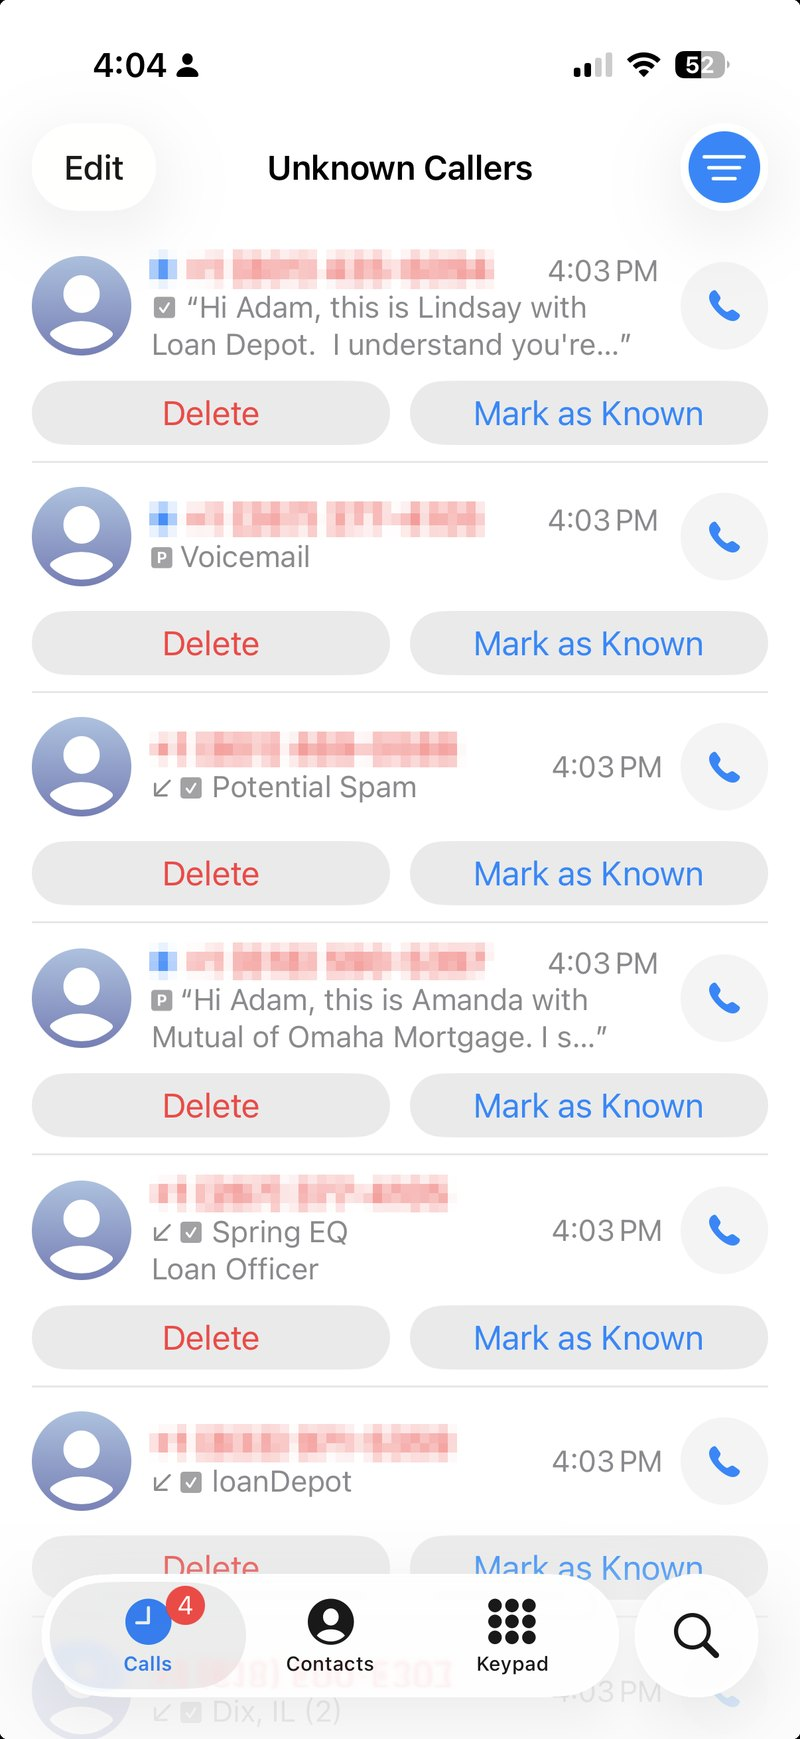
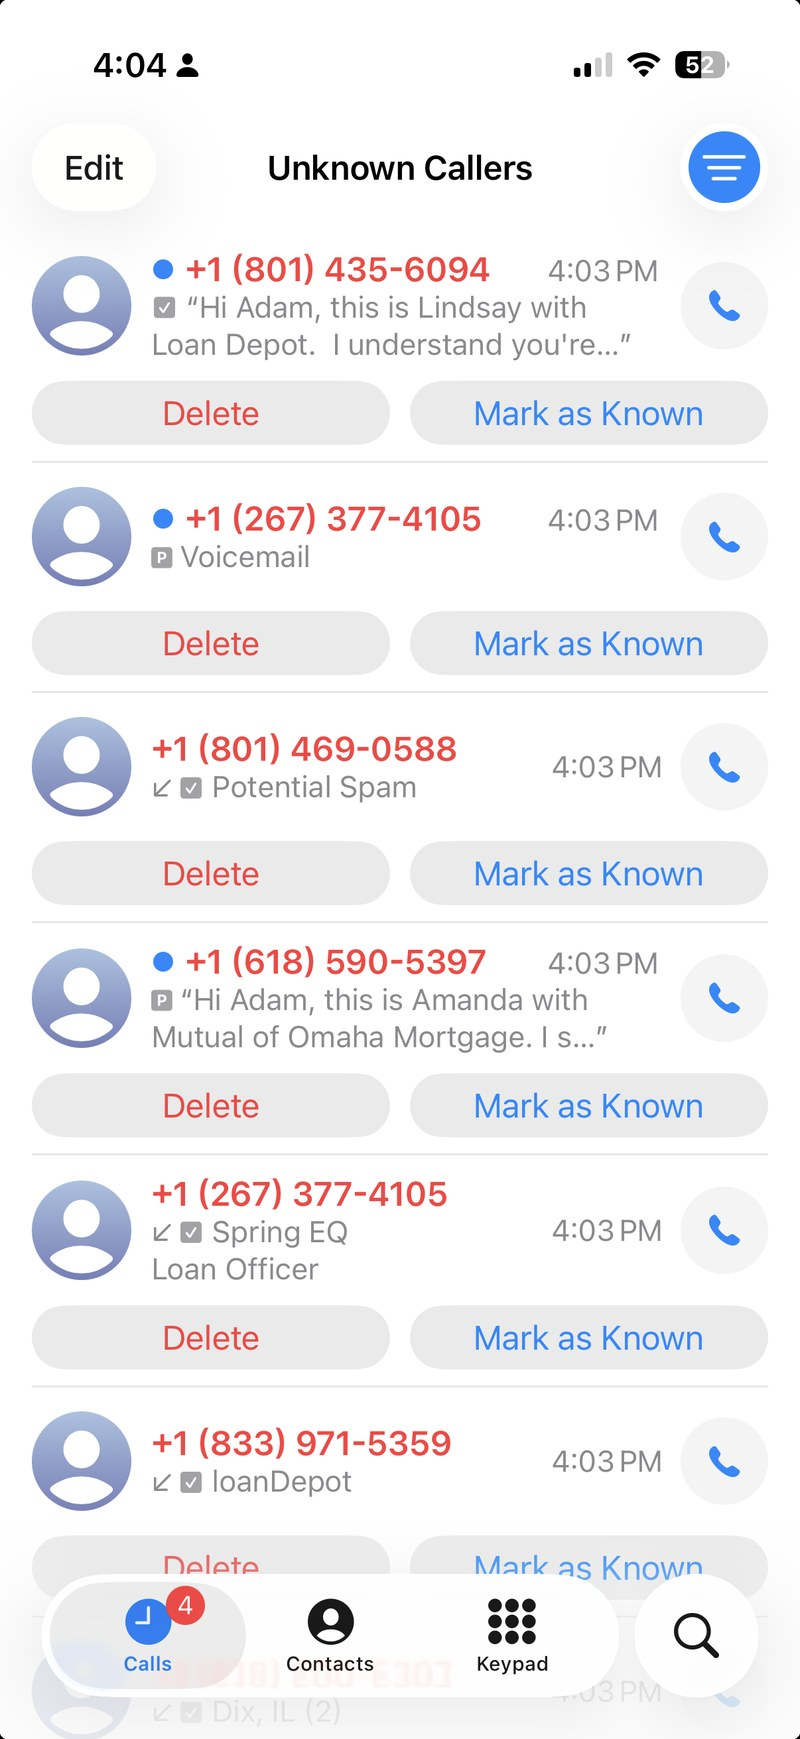
lendingtree: unblurred call list, illustrated Unknown Senders text list, figure note
Claude-Session: https://claude.ai/code/session_01LHypydFLmCk2cc34C9Lyrg

diff --git a/public/lendingtree/index.html b/public/lendingtree/index.html
@@ -10,7 +10,7 @@
 <link rel="preconnect" href="https://fonts.googleapis.com">
 <link rel="preconnect" href="https://fonts.gstatic.com" crossorigin>
 <link href="https://fonts.googleapis.com/css2?family=Inter:wght@300;400;500;600;700&family=Montserrat:wght@500;600;700;800&display=swap" rel="stylesheet">
-<link rel="stylesheet" href="/lendingtree/lt.css?v=3">
+<link rel="stylesheet" href="/lendingtree/lt.css?v=4">
 <script>document.documentElement.classList.add('js');</script>
 <link rel="icon" href="/favicon.ico" sizes="any">
 <link rel="icon" href="/favicon.svg" type="image/svg+xml">
@@ -57,10 +57,11 @@
     <div class="media rv">
       <div class="phones" aria-label="Two iPhone screens: a flood of texts, and unknown callers with voicemails">
         <div class="dev"><i class="btn a"></i><i class="btn u"></i><i class="btn d"></i><i class="btn p"></i>
-          <div class="scr"><img src="/lendingtree/img/p1-texts.jpg" alt="Two text messages from different lenders, arriving two minutes apart, each asking whether to text or call" width="800" height="1739" loading="lazy"><div class="notch"></div><div class="home"></div></div></div>
+          <div class="scr"><img src="/lendingtree/img/p1-texts.jpg" alt="Illustration of an iPhone Unknown Senders list: thirteen texts from lenders arriving between 4:02 and 4:05 PM" width="800" height="1739" loading="lazy"><div class="notch"></div><div class="home"></div></div></div>
         <div class="dev"><i class="btn a"></i><i class="btn u"></i><i class="btn d"></i><i class="btn p"></i>
           <div class="scr"><img src="/lendingtree/img/p1-calls.jpg" alt="iPhone Unknown Callers list: six calls and voicemails from lenders, all at 4:03 PM" width="800" height="1739" loading="lazy"><div class="notch"></div><div class="home"></div></div></div>
       </div>
+      <p class="fig-note">Left: an illustration of the volume of texts, with fictional numbers. Right: my actual call list, minutes after submitting.</p>
     </div>
   </div>
   <div class="wrap">

diff --git a/public/lendingtree/lt.css b/public/lendingtree/lt.css
@@ -184,3 +184,5 @@ footer a { color: #0a0d12; text-underline-offset: 3px; }
   .dev .scr { border-radius: 30px; }
 }
 @media (prefers-reduced-motion: reduce) { .js .rv { opacity: 1; transform: none; } * { transition: none !important; } }
+
+.fig-note { font-size: .8rem; color: var(--muted); text-align: center; max-width: 46ch; margin: 6px auto 0; }
